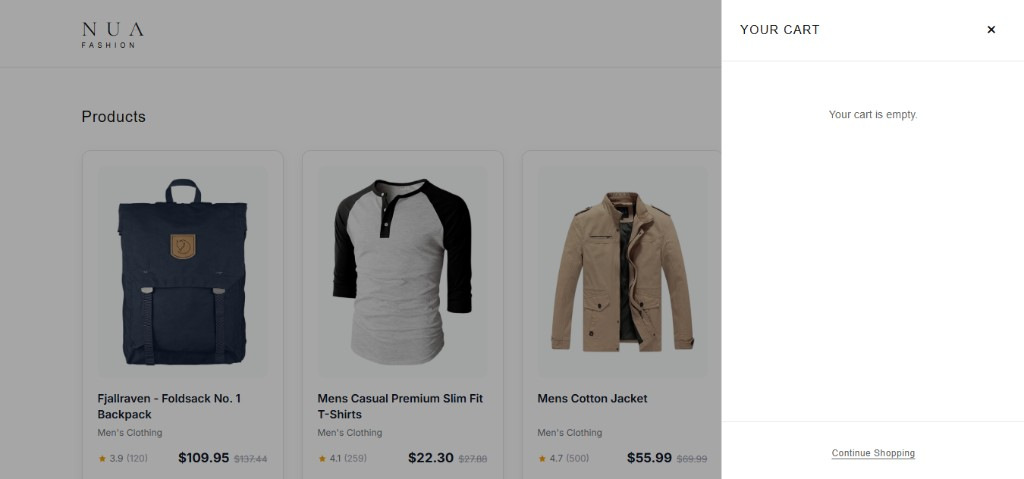
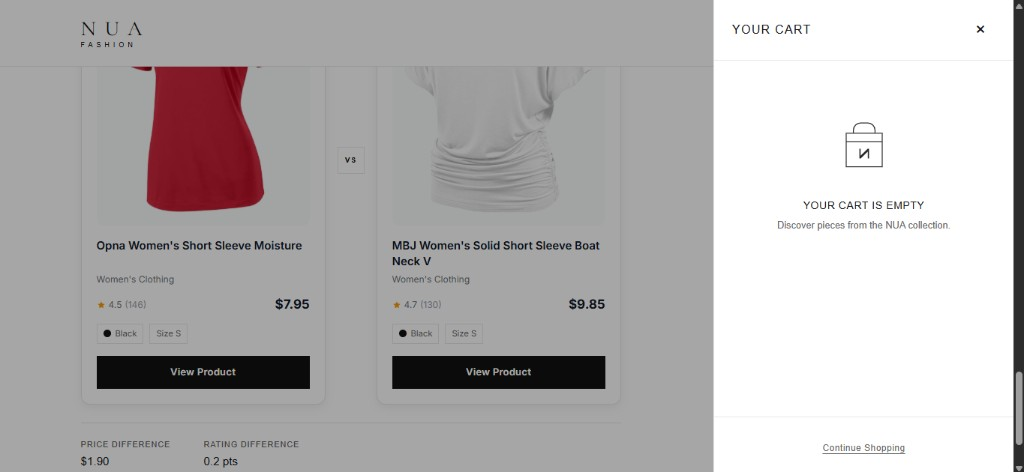
final Readme commit

diff --git a/README.md b/README.md
@@ -56,6 +56,54 @@ https://github.com/paruljamwal/NUA-Fashion
 
 ---
 
+## Performance (Before Optimization)
+
+Baseline Lighthouse, build, and network results captured before any performance work.
+
+### Lighthouse — Mobile
+
+![Lighthouse Mobile Before](./screenshots/lighthouse-mobile-before.png)
+
+![Lighthouse Mobile Metrics Before](./screenshots/lighthouse-mobile-before-metrics.png)
+
+### Lighthouse — Desktop
+
+![Lighthouse Desktop Before](./screenshots/lighthouse-desktop-before.png)
+
+![Lighthouse Desktop Diagnostics Before](./screenshots/lighthouse-desktop-before-diagnostics.png)
+
+### Production Build
+
+![Build Before](./screenshots/build-before.png)
+
+### Chunking / Network
+
+![Chunking Before](./screenshots/chunking-before.png)
+
+---
+
+## Performance (After Optimization)
+
+Lighthouse and build results after performance improvements (lazy routes, code splitting, and related optimizations).
+
+### Lighthouse — Desktop
+
+![Lighthouse Desktop After](./screenshots/lighthouse-desktop-after.png)
+
+![Lighthouse Desktop Metrics After](./screenshots/lighthouse-desktop-after-metrics.png)
+
+### Lighthouse — Mobile
+
+![Lighthouse Mobile After](./screenshots/lighthouse-mobile-after.png)
+
+![Lighthouse Mobile Metrics After](./screenshots/lighthouse-mobile-after-metrics.png)
+
+### Production Build
+
+![Build After](./screenshots/build-after.png)
+
+---
+
 ## Features
 
 - Product listing